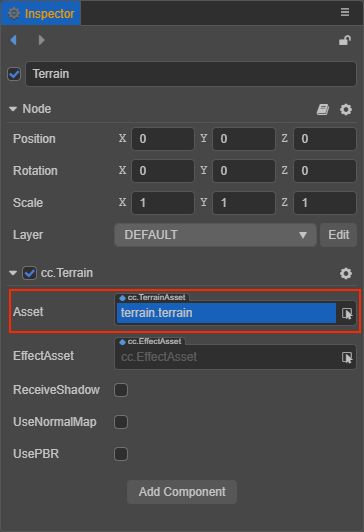
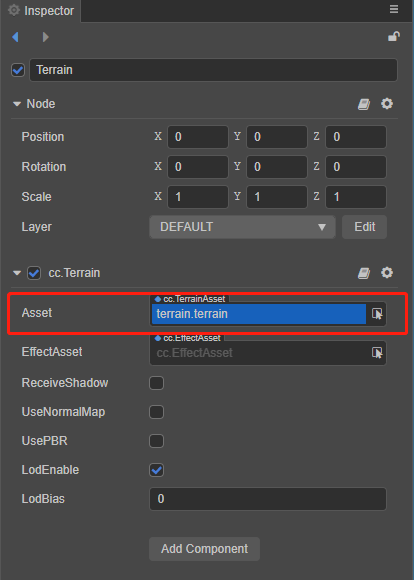
补充地形Lod相关文档

diff --git a/en/editor/terrain/index.md b/en/editor/terrain/index.md
@@ -25,6 +25,8 @@ Two steps are required to create a terrain:
 | **ReceiveShadow** | Accept the shadow |
 | **UseNormalMap** | Use normal map |
 | **UsePBR** | Use physical materials |
+| **LodEnable** | Enable terrain lod |
+| **LodBias** | lod start distance |
 
 ## Using a terrain
 

diff --git a/zh/editor/terrain/index.md b/zh/editor/terrain/index.md
@@ -25,6 +25,8 @@
 | ReceiveShadow | 是否接受阴影 |
 | UseNormalMap | 是否使用法线贴图 |
 | UsePBR | 是否使用物理材质 |
+| LodEnable | 是否启用地形Lod |
+| LodBias | Lod起始距离 |
 
 ## 使用
 
